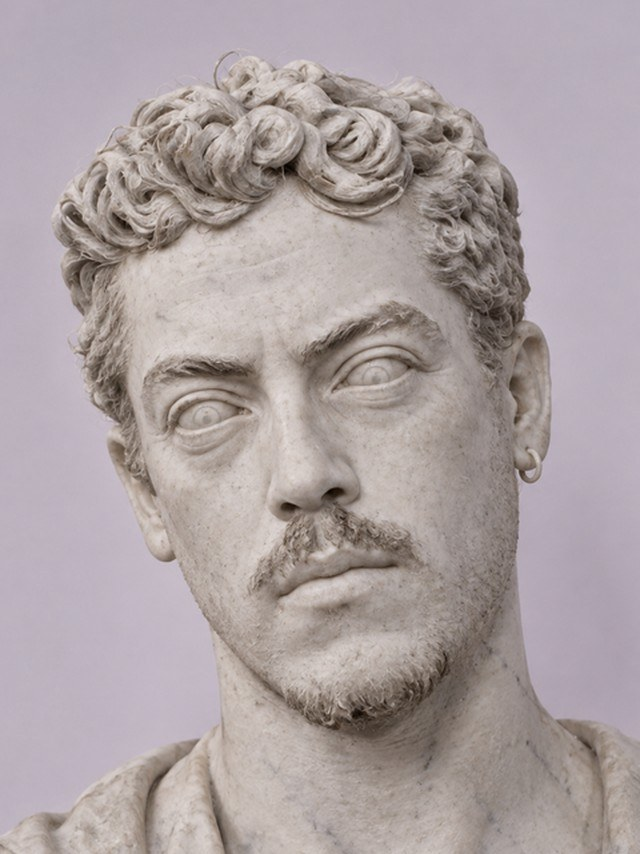
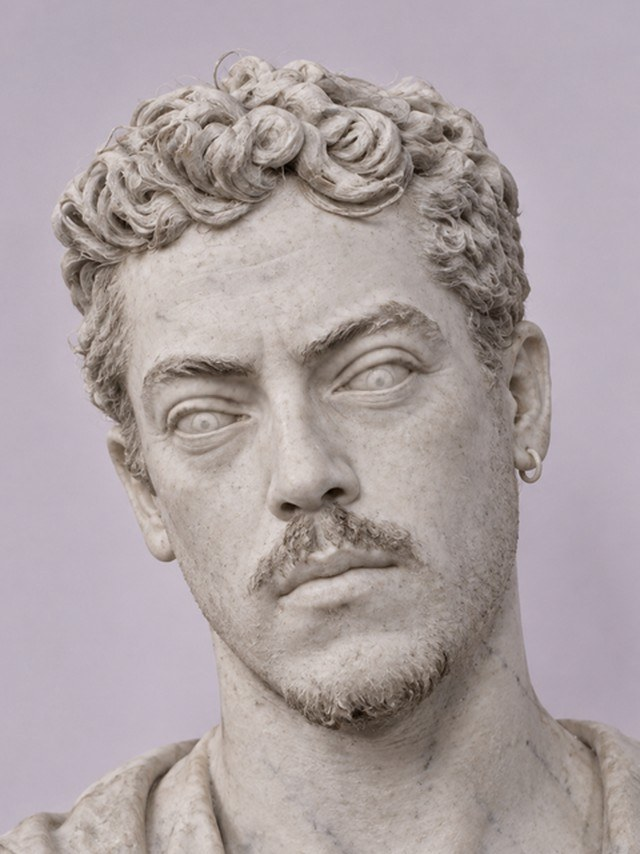
About us: ojos de la estatua de Felipe en la posición de sus ojos reales

Changed region(s): [[0.25, 0.4262, 0.4062, 0.5176], [0.5, 0.3958, 0.6562, 0.4871]]

diff --git a/de/about-us/index.html b/de/about-us/index.html
@@ -89,7 +89,7 @@
           <div class="fl-grid"><div class="fl-obra"><h4>The Heart Is Not a Bomb</h4><ul><li><span class="fl-cat">Official Selection</span> <span class="fl-fest">Cine y Derechos Humanos</span> <span class="fl-pais">Spain · 2025</span></li><li><span class="fl-cat">Official Selection</span> <span class="fl-fest">InShadow</span> <span class="fl-pais">Portugal · 2025</span></li><li><span class="fl-cat">Official Selection</span> <span class="fl-fest">Mexico City Videodance</span> <span class="fl-pais">Mexico · 2025</span></li></ul></div><div class="fl-obra"><h4>To Dwell</h4><ul><li class="premio"><span class="fl-cat">Best Choreography</span> <span class="fl-fest">Movimiento Audiovisual</span> <span class="fl-pais">Mexico · 2023</span></li><li><span class="fl-cat">Official Selection</span> <span class="fl-fest">Max Sir</span> <span class="fl-pais">Ukraine · 2024</span></li><li><span class="fl-cat">Official Selection</span> <span class="fl-fest">Bridges</span> <span class="fl-pais">United States · 2023</span></li><li><span class="fl-cat">Official Selection</span> <span class="fl-fest">Cuerpo Digital</span> <span class="fl-pais">Bolivia · 2023</span></li></ul></div><div class="fl-obra"><h4>Ahora Somos Nosotres</h4><ul><li class="premio"><span class="fl-cat">Best Sound &amp; Music</span> <span class="fl-fest">Style, Experimental, Fashion Film Festival</span> <span class="fl-pais">2023</span></li><li><span class="fl-cat">Official Selection</span> <span class="fl-fest">Style, Experimental, Fashion Film Festival</span> <span class="fl-pais">2023</span></li></ul></div><div class="fl-obra"><h4>Ecdysis: Actions for Shedding Skin. Liquefy</h4><ul><li><span class="fl-cat">Official Selection</span> <span class="fl-fest">Cine Bio-Bío</span> <span class="fl-pais">Chile</span></li><li><span class="fl-cat">Official Selection</span> <span class="fl-fest">Santiago a Mil</span> <span class="fl-pais">Chile</span></li></ul></div><div class="fl-obra"><h4>Escape</h4><ul><li class="premio"><span class="fl-cat">Honorable Mention</span> <span class="fl-fest">Mexico City Videodance</span> <span class="fl-pais">Mexico · 2021</span></li><li class="premio"><span class="fl-cat">Finalist</span> <span class="fl-fest">Dance Camera West</span> <span class="fl-pais">United States</span></li><li><span class="fl-cat">Official Selection</span> <span class="fl-fest">Bucharest Dance Film</span> <span class="fl-pais">Romania · 2020</span></li><li><span class="fl-cat">Official Selection</span> <span class="fl-fest">InShadow</span> <span class="fl-pais">Portugal · 2020</span></li><li><span class="fl-cat">Official Selection</span> <span class="fl-fest">LA Dance Shorts</span> <span class="fl-pais">United States · 2020</span></li><li><span class="fl-cat">Official Selection</span> <span class="fl-fest">Screendance Miami</span> <span class="fl-pais">United States · 2021</span></li><li><span class="fl-cat">Official Selection</span> <span class="fl-fest">CAPITOL Dance &amp; Cinema</span> <span class="fl-pais">United States · 2020</span></li><li><span class="fl-cat">Official Selection</span> <span class="fl-fest">Cascadia Dance &amp; Cinema</span> <span class="fl-pais">Canada · 2020</span></li><li><span class="fl-cat">Official Selection</span> <span class="fl-fest">Artes Mediales</span> <span class="fl-pais">Chile</span></li><li><span class="fl-cat">Official Selection</span> <span class="fl-fest">Fintdaz</span> <span class="fl-pais">Chile · 2020</span></li></ul></div><div class="fl-obra"><h4>misoginia Pandora</h4><ul><li class="premio"><span class="fl-cat">Best Film</span> <span class="fl-fest">Imagitari DJK Fest</span> <span class="fl-pais">Indonesia · 2018</span></li><li><span class="fl-cat">Official Selection</span> <span class="fl-fest">Iowa ScreenDance</span> <span class="fl-pais">United States</span></li><li><span class="fl-cat">Official Selection</span> <span class="fl-fest">Festival ABC</span> <span class="fl-pais">Spain</span></li><li><span class="fl-cat">Official Selection</span> <span class="fl-fest">Dança em Foco</span> <span class="fl-pais">Brazil</span></li><li><span class="fl-cat">Official Selection</span> <span class="fl-fest">Video Danza Chile</span> <span class="fl-pais">Chile · 2017</span></li><li><span class="fl-cat">Official Selection</span> <span class="fl-fest">Cine Ituzaingó</span> <span class="fl-pais">Argentina</span></li><li><span class="fl-cat">Official Selection</span> <span class="fl-fest">Flexiff</span> <span class="fl-pais">Australia · 2017</span></li><li><span class="fl-cat">Official Selection</span> <span class="fl-fest">FIDIC Cocoa</span> <span class="fl-pais">Argentina</span></li><li><span class="fl-cat">Official Selection</span> <span class="fl-fest">Intermediaciones</span> <span class="fl-pais">Colombia</span></li><li><span class="fl-cat">Official Selection</span> <span class="fl-fest">São Carlos Videodance</span> <span class="fl-pais">Brazil</span></li><li><span class="fl-cat">Official Selection</span> <span class="fl-fest">La mida no importa</span> <span class="fl-pais">Spain</span></li><li><span class="fl-cat">Official Selection</span> <span class="fl-fest">Bugarte</span> <span class="fl-pais">Colombia · 2017</span></li><li><span class="fl-cat">Official Selection</span> <span class="fl-fest">MiTS</span> <span class="fl-pais">Spain</span></li><li><span class="fl-cat">Official Selection</span> <span class="fl-fest">Sardinian Festival</span> <span class="fl-pais">Italy</span></li><li><span class="fl-cat">Official Selection</span> <span class="fl-fest">CCPC</span> <span class="fl-pais">Costa Rica</span></li><li><span class="fl-cat">Official Selection</span> <span class="fl-fest">Bekraf Fest</span> <span class="fl-pais">Indonesia</span></li><li><span class="fl-cat">Official Selection</span> <span class="fl-fest">FICESMI</span> <span class="fl-pais">Argentina</span></li></ul></div><div class="fl-obra"><h4>misoginia EVA</h4><ul><li><span class="fl-cat">Official Selection</span> <span class="fl-fest">Danzalborde</span> <span class="fl-pais">Chile · 2016</span></li><li><span class="fl-cat">Official Selection</span> <span class="fl-fest">InVe</span> <span class="fl-pais">Chile · 2016</span></li><li><span class="fl-cat">Official Selection</span> <span class="fl-fest">Athens Video Dance Project</span> <span class="fl-pais">Griechenland · 2016</span></li><li><span class="fl-cat">Official Selection</span> <span class="fl-fest">El Cruce</span> <span class="fl-pais">Argentina · 2016</span></li><li><span class="fl-cat">Official Selection</span> <span class="fl-fest">LUMEN</span> <span class="fl-pais">Chile · 2016</span></li></ul></div><div class="fl-obra"><h4>SUBE / Al aire el río</h4><ul><li class="premio"><span class="fl-cat">Gewinner</span> <span class="fl-fest">Animal &amp; Environmental</span> <span class="fl-pais">Mexico · 2021</span></li><li><span class="fl-cat">Official Selection</span> <span class="fl-fest">AQP Festival</span> <span class="fl-pais">Peru · 2021</span></li><li><span class="fl-cat">Official Selection</span> <span class="fl-fest">Cinelebu</span> <span class="fl-pais">Chile · 2022</span></li></ul></div><div class="fl-obra"><h4>SUBE / Ramato</h4><ul><li><span class="fl-cat">Official Selection</span> <span class="fl-fest">BioBioCine</span> <span class="fl-pais">Chile · 2019</span></li></ul></div></div>
         </details>
         <div class="director">
-          <span class="estatua" tabindex="0"><img class="director-foto" src="../../img/director.jpg?v=2" alt="Felipe Díaz Galarce" width="640" height="854" loading="lazy"><img class="director-foto marmol" src="../../img/director-estatua.jpg?v=3" alt="" aria-hidden="true" width="640" height="854" loading="lazy"></span>
+          <span class="estatua" tabindex="0"><img class="director-foto" src="../../img/director.jpg?v=2" alt="Felipe Díaz Galarce" width="640" height="854" loading="lazy"><img class="director-foto marmol" src="../../img/director-estatua.jpg?v=4" alt="" aria-hidden="true" width="640" height="854" loading="lazy"></span>
           <div>
             <p class="firma"><strong>Felipe Díaz Galarce</strong> — Regisseur</p>
         <p>Vor dem Film zwölf Jahre Theater als Schauspieler, Autor und Regisseur sowie Produzent der Theaterkompanie Turba (2009–2019). Er tanzt zeitgenössischen Tanz und Contact Improvisation mit der Kompanie <strong>mundomoebio</strong>, mit der er in Argentinien, Peru, Chile, Brasilien, Kanada und China aufgetreten ist.</p>

diff --git a/es/about-us/index.html b/es/about-us/index.html
@@ -89,7 +89,7 @@
           <div class="fl-grid"><div class="fl-obra"><h4>El corazón no es una bomba</h4><ul><li><span class="fl-cat">Official Selection</span> <span class="fl-fest">Cine y Derechos Humanos</span> <span class="fl-pais">Spain · 2025</span></li><li><span class="fl-cat">Official Selection</span> <span class="fl-fest">InShadow</span> <span class="fl-pais">Portugal · 2025</span></li><li><span class="fl-cat">Official Selection</span> <span class="fl-fest">Mexico City Videodance</span> <span class="fl-pais">Mexico · 2025</span></li></ul></div><div class="fl-obra"><h4>Morar</h4><ul><li class="premio"><span class="fl-cat">Best Choreography</span> <span class="fl-fest">Movimiento Audiovisual</span> <span class="fl-pais">Mexico · 2023</span></li><li><span class="fl-cat">Official Selection</span> <span class="fl-fest">Max Sir</span> <span class="fl-pais">Ukraine · 2024</span></li><li><span class="fl-cat">Official Selection</span> <span class="fl-fest">Bridges</span> <span class="fl-pais">United States · 2023</span></li><li><span class="fl-cat">Official Selection</span> <span class="fl-fest">Cuerpo Digital</span> <span class="fl-pais">Bolivia · 2023</span></li></ul></div><div class="fl-obra"><h4>Ahora Somos Nosotres</h4><ul><li class="premio"><span class="fl-cat">Best Sound &amp; Music</span> <span class="fl-fest">Style, Experimental, Fashion Film Festival</span> <span class="fl-pais">2023</span></li><li><span class="fl-cat">Official Selection</span> <span class="fl-fest">Style, Experimental, Fashion Film Festival</span> <span class="fl-pais">2023</span></li></ul></div><div class="fl-obra"><h4>Ecdisis acciones para mudar de piel. Licuar</h4><ul><li><span class="fl-cat">Official Selection</span> <span class="fl-fest">Cine Bio-Bío</span> <span class="fl-pais">Chile</span></li><li><span class="fl-cat">Official Selection</span> <span class="fl-fest">Santiago a Mil</span> <span class="fl-pais">Chile</span></li></ul></div><div class="fl-obra"><h4>Escape</h4><ul><li class="premio"><span class="fl-cat">Honorable Mention</span> <span class="fl-fest">Mexico City Videodance</span> <span class="fl-pais">Mexico · 2021</span></li><li class="premio"><span class="fl-cat">Finalist</span> <span class="fl-fest">Dance Camera West</span> <span class="fl-pais">United States</span></li><li><span class="fl-cat">Official Selection</span> <span class="fl-fest">Bucharest Dance Film</span> <span class="fl-pais">Romania · 2020</span></li><li><span class="fl-cat">Official Selection</span> <span class="fl-fest">InShadow</span> <span class="fl-pais">Portugal · 2020</span></li><li><span class="fl-cat">Official Selection</span> <span class="fl-fest">LA Dance Shorts</span> <span class="fl-pais">United States · 2020</span></li><li><span class="fl-cat">Official Selection</span> <span class="fl-fest">Screendance Miami</span> <span class="fl-pais">United States · 2021</span></li><li><span class="fl-cat">Official Selection</span> <span class="fl-fest">CAPITOL Dance &amp; Cinema</span> <span class="fl-pais">United States · 2020</span></li><li><span class="fl-cat">Official Selection</span> <span class="fl-fest">Cascadia Dance &amp; Cinema</span> <span class="fl-pais">Canada · 2020</span></li><li><span class="fl-cat">Official Selection</span> <span class="fl-fest">Artes Mediales</span> <span class="fl-pais">Chile</span></li><li><span class="fl-cat">Official Selection</span> <span class="fl-fest">Fintdaz</span> <span class="fl-pais">Chile · 2020</span></li></ul></div><div class="fl-obra"><h4>misoginia Pandora</h4><ul><li class="premio"><span class="fl-cat">Best Film</span> <span class="fl-fest">Imagitari DJK Fest</span> <span class="fl-pais">Indonesia · 2018</span></li><li><span class="fl-cat">Official Selection</span> <span class="fl-fest">Iowa ScreenDance</span> <span class="fl-pais">United States</span></li><li><span class="fl-cat">Official Selection</span> <span class="fl-fest">Festival ABC</span> <span class="fl-pais">Spain</span></li><li><span class="fl-cat">Official Selection</span> <span class="fl-fest">Dança em Foco</span> <span class="fl-pais">Brazil</span></li><li><span class="fl-cat">Official Selection</span> <span class="fl-fest">Video Danza Chile</span> <span class="fl-pais">Chile · 2017</span></li><li><span class="fl-cat">Official Selection</span> <span class="fl-fest">Cine Ituzaingó</span> <span class="fl-pais">Argentina</span></li><li><span class="fl-cat">Official Selection</span> <span class="fl-fest">Flexiff</span> <span class="fl-pais">Australia · 2017</span></li><li><span class="fl-cat">Official Selection</span> <span class="fl-fest">FIDIC Cocoa</span> <span class="fl-pais">Argentina</span></li><li><span class="fl-cat">Official Selection</span> <span class="fl-fest">Intermediaciones</span> <span class="fl-pais">Colombia</span></li><li><span class="fl-cat">Official Selection</span> <span class="fl-fest">São Carlos Videodance</span> <span class="fl-pais">Brazil</span></li><li><span class="fl-cat">Official Selection</span> <span class="fl-fest">La mida no importa</span> <span class="fl-pais">Spain</span></li><li><span class="fl-cat">Official Selection</span> <span class="fl-fest">Bugarte</span> <span class="fl-pais">Colombia · 2017</span></li><li><span class="fl-cat">Official Selection</span> <span class="fl-fest">MiTS</span> <span class="fl-pais">Spain</span></li><li><span class="fl-cat">Official Selection</span> <span class="fl-fest">Sardinian Festival</span> <span class="fl-pais">Italy</span></li><li><span class="fl-cat">Official Selection</span> <span class="fl-fest">CCPC</span> <span class="fl-pais">Costa Rica</span></li><li><span class="fl-cat">Official Selection</span> <span class="fl-fest">Bekraf Fest</span> <span class="fl-pais">Indonesia</span></li><li><span class="fl-cat">Official Selection</span> <span class="fl-fest">FICESMI</span> <span class="fl-pais">Argentina</span></li></ul></div><div class="fl-obra"><h4>misoginia EVA</h4><ul><li><span class="fl-cat">Official Selection</span> <span class="fl-fest">Danzalborde</span> <span class="fl-pais">Chile · 2016</span></li><li><span class="fl-cat">Official Selection</span> <span class="fl-fest">InVe</span> <span class="fl-pais">Chile · 2016</span></li><li><span class="fl-cat">Official Selection</span> <span class="fl-fest">Athens Video Dance Project</span> <span class="fl-pais">Grecia · 2016</span></li><li><span class="fl-cat">Official Selection</span> <span class="fl-fest">El Cruce</span> <span class="fl-pais">Argentina · 2016</span></li><li><span class="fl-cat">Official Selection</span> <span class="fl-fest">LUMEN</span> <span class="fl-pais">Chile · 2016</span></li></ul></div><div class="fl-obra"><h4>SUBE / Al aire el río</h4><ul><li class="premio"><span class="fl-cat">Ganador</span> <span class="fl-fest">Animal &amp; Environmental</span> <span class="fl-pais">Mexico · 2021</span></li><li><span class="fl-cat">Official Selection</span> <span class="fl-fest">AQP Festival</span> <span class="fl-pais">Peru · 2021</span></li><li><span class="fl-cat">Official Selection</span> <span class="fl-fest">Cinelebu</span> <span class="fl-pais">Chile · 2022</span></li></ul></div><div class="fl-obra"><h4>SUBE / Ramato</h4><ul><li><span class="fl-cat">Official Selection</span> <span class="fl-fest">BioBioCine</span> <span class="fl-pais">Chile · 2019</span></li></ul></div></div>
         </details>
         <div class="director">
-          <span class="estatua" tabindex="0"><img class="director-foto" src="../../img/director.jpg?v=2" alt="Felipe Díaz Galarce" width="640" height="854" loading="lazy"><img class="director-foto marmol" src="../../img/director-estatua.jpg?v=3" alt="" aria-hidden="true" width="640" height="854" loading="lazy"></span>
+          <span class="estatua" tabindex="0"><img class="director-foto" src="../../img/director.jpg?v=2" alt="Felipe Díaz Galarce" width="640" height="854" loading="lazy"><img class="director-foto marmol" src="../../img/director-estatua.jpg?v=4" alt="" aria-hidden="true" width="640" height="854" loading="lazy"></span>
           <div>
             <p class="firma"><strong>Felipe Díaz Galarce</strong> — Director</p>
         <p>Antes del cine, doce años de teatro como actor, dramaturgo y director, y productor de la compañía Turba entre 2009 y 2019. Practica danza contemporánea y contacto improvisación con la compañía <strong>mundomoebio</strong>, con la que se ha presentado en Argentina, Perú, Chile, Brasil, Canadá y China.</p>

diff --git a/about-us/index.html b/about-us/index.html
@@ -88,7 +88,7 @@
           <div class="fl-grid"><div class="fl-obra"><h4>The Heart Is Not a Bomb</h4><ul><li><span class="fl-cat">Official Selection</span> <span class="fl-fest">Cine y Derechos Humanos</span> <span class="fl-pais">Spain · 2025</span></li><li><span class="fl-cat">Official Selection</span> <span class="fl-fest">InShadow</span> <span class="fl-pais">Portugal · 2025</span></li><li><span class="fl-cat">Official Selection</span> <span class="fl-fest">Mexico City Videodance</span> <span class="fl-pais">Mexico · 2025</span></li></ul></div><div class="fl-obra"><h4>To Dwell</h4><ul><li class="premio"><span class="fl-cat">Best Choreography</span> <span class="fl-fest">Movimiento Audiovisual</span> <span class="fl-pais">Mexico · 2023</span></li><li><span class="fl-cat">Official Selection</span> <span class="fl-fest">Max Sir</span> <span class="fl-pais">Ukraine · 2024</span></li><li><span class="fl-cat">Official Selection</span> <span class="fl-fest">Bridges</span> <span class="fl-pais">United States · 2023</span></li><li><span class="fl-cat">Official Selection</span> <span class="fl-fest">Cuerpo Digital</span> <span class="fl-pais">Bolivia · 2023</span></li></ul></div><div class="fl-obra"><h4>Ahora Somos Nosotres</h4><ul><li class="premio"><span class="fl-cat">Best Sound &amp; Music</span> <span class="fl-fest">Style, Experimental, Fashion Film Festival</span> <span class="fl-pais">2023</span></li><li><span class="fl-cat">Official Selection</span> <span class="fl-fest">Style, Experimental, Fashion Film Festival</span> <span class="fl-pais">2023</span></li></ul></div><div class="fl-obra"><h4>Ecdysis: Actions for Shedding Skin. Liquefy</h4><ul><li><span class="fl-cat">Official Selection</span> <span class="fl-fest">Cine Bio-Bío</span> <span class="fl-pais">Chile</span></li><li><span class="fl-cat">Official Selection</span> <span class="fl-fest">Santiago a Mil</span> <span class="fl-pais">Chile</span></li></ul></div><div class="fl-obra"><h4>Escape</h4><ul><li class="premio"><span class="fl-cat">Honorable Mention</span> <span class="fl-fest">Mexico City Videodance</span> <span class="fl-pais">Mexico · 2021</span></li><li class="premio"><span class="fl-cat">Finalist</span> <span class="fl-fest">Dance Camera West</span> <span class="fl-pais">United States</span></li><li><span class="fl-cat">Official Selection</span> <span class="fl-fest">Bucharest Dance Film</span> <span class="fl-pais">Romania · 2020</span></li><li><span class="fl-cat">Official Selection</span> <span class="fl-fest">InShadow</span> <span class="fl-pais">Portugal · 2020</span></li><li><span class="fl-cat">Official Selection</span> <span class="fl-fest">LA Dance Shorts</span> <span class="fl-pais">United States · 2020</span></li><li><span class="fl-cat">Official Selection</span> <span class="fl-fest">Screendance Miami</span> <span class="fl-pais">United States · 2021</span></li><li><span class="fl-cat">Official Selection</span> <span class="fl-fest">CAPITOL Dance &amp; Cinema</span> <span class="fl-pais">United States · 2020</span></li><li><span class="fl-cat">Official Selection</span> <span class="fl-fest">Cascadia Dance &amp; Cinema</span> <span class="fl-pais">Canada · 2020</span></li><li><span class="fl-cat">Official Selection</span> <span class="fl-fest">Artes Mediales</span> <span class="fl-pais">Chile</span></li><li><span class="fl-cat">Official Selection</span> <span class="fl-fest">Fintdaz</span> <span class="fl-pais">Chile · 2020</span></li></ul></div><div class="fl-obra"><h4>misoginia Pandora</h4><ul><li class="premio"><span class="fl-cat">Best Film</span> <span class="fl-fest">Imagitari DJK Fest</span> <span class="fl-pais">Indonesia · 2018</span></li><li><span class="fl-cat">Official Selection</span> <span class="fl-fest">Iowa ScreenDance</span> <span class="fl-pais">United States</span></li><li><span class="fl-cat">Official Selection</span> <span class="fl-fest">Festival ABC</span> <span class="fl-pais">Spain</span></li><li><span class="fl-cat">Official Selection</span> <span class="fl-fest">Dança em Foco</span> <span class="fl-pais">Brazil</span></li><li><span class="fl-cat">Official Selection</span> <span class="fl-fest">Video Danza Chile</span> <span class="fl-pais">Chile · 2017</span></li><li><span class="fl-cat">Official Selection</span> <span class="fl-fest">Cine Ituzaingó</span> <span class="fl-pais">Argentina</span></li><li><span class="fl-cat">Official Selection</span> <span class="fl-fest">Flexiff</span> <span class="fl-pais">Australia · 2017</span></li><li><span class="fl-cat">Official Selection</span> <span class="fl-fest">FIDIC Cocoa</span> <span class="fl-pais">Argentina</span></li><li><span class="fl-cat">Official Selection</span> <span class="fl-fest">Intermediaciones</span> <span class="fl-pais">Colombia</span></li><li><span class="fl-cat">Official Selection</span> <span class="fl-fest">São Carlos Videodance</span> <span class="fl-pais">Brazil</span></li><li><span class="fl-cat">Official Selection</span> <span class="fl-fest">La mida no importa</span> <span class="fl-pais">Spain</span></li><li><span class="fl-cat">Official Selection</span> <span class="fl-fest">Bugarte</span> <span class="fl-pais">Colombia · 2017</span></li><li><span class="fl-cat">Official Selection</span> <span class="fl-fest">MiTS</span> <span class="fl-pais">Spain</span></li><li><span class="fl-cat">Official Selection</span> <span class="fl-fest">Sardinian Festival</span> <span class="fl-pais">Italy</span></li><li><span class="fl-cat">Official Selection</span> <span class="fl-fest">CCPC</span> <span class="fl-pais">Costa Rica</span></li><li><span class="fl-cat">Official Selection</span> <span class="fl-fest">Bekraf Fest</span> <span class="fl-pais">Indonesia</span></li><li><span class="fl-cat">Official Selection</span> <span class="fl-fest">FICESMI</span> <span class="fl-pais">Argentina</span></li></ul></div><div class="fl-obra"><h4>misoginia EVA</h4><ul><li><span class="fl-cat">Official Selection</span> <span class="fl-fest">Danzalborde</span> <span class="fl-pais">Chile · 2016</span></li><li><span class="fl-cat">Official Selection</span> <span class="fl-fest">InVe</span> <span class="fl-pais">Chile · 2016</span></li><li><span class="fl-cat">Official Selection</span> <span class="fl-fest">Athens Video Dance Project</span> <span class="fl-pais">Greece · 2016</span></li><li><span class="fl-cat">Official Selection</span> <span class="fl-fest">El Cruce</span> <span class="fl-pais">Argentina · 2016</span></li><li><span class="fl-cat">Official Selection</span> <span class="fl-fest">LUMEN</span> <span class="fl-pais">Chile · 2016</span></li></ul></div><div class="fl-obra"><h4>SUBE / Al aire el río</h4><ul><li class="premio"><span class="fl-cat">Winner</span> <span class="fl-fest">Animal &amp; Environmental</span> <span class="fl-pais">Mexico · 2021</span></li><li><span class="fl-cat">Official Selection</span> <span class="fl-fest">AQP Festival</span> <span class="fl-pais">Peru · 2021</span></li><li><span class="fl-cat">Official Selection</span> <span class="fl-fest">Cinelebu</span> <span class="fl-pais">Chile · 2022</span></li></ul></div><div class="fl-obra"><h4>SUBE / Ramato</h4><ul><li><span class="fl-cat">Official Selection</span> <span class="fl-fest">BioBioCine</span> <span class="fl-pais">Chile · 2019</span></li></ul></div></div>
         </details>
         <div class="director">
-          <span class="estatua" tabindex="0"><img class="director-foto" src="../img/director.jpg?v=2" alt="Felipe Díaz Galarce" width="640" height="854" loading="lazy"><img class="director-foto marmol" src="../img/director-estatua.jpg?v=3" alt="" aria-hidden="true" width="640" height="854" loading="lazy"></span>
+          <span class="estatua" tabindex="0"><img class="director-foto" src="../img/director.jpg?v=2" alt="Felipe Díaz Galarce" width="640" height="854" loading="lazy"><img class="director-foto marmol" src="../img/director-estatua.jpg?v=4" alt="" aria-hidden="true" width="640" height="854" loading="lazy"></span>
           <div>
             <p class="firma"><strong>Felipe Díaz Galarce</strong> — Director</p>
         <p>Before cinema, twelve years in theatre as actor, playwright and director, and producer of the stage company Turba between 2009 and 2019. He dances contemporary and contact improvisation with the company <strong>mundomoebio</strong>, performing in Argentina, Peru, Chile, Brazil, Canada and China.</p>
